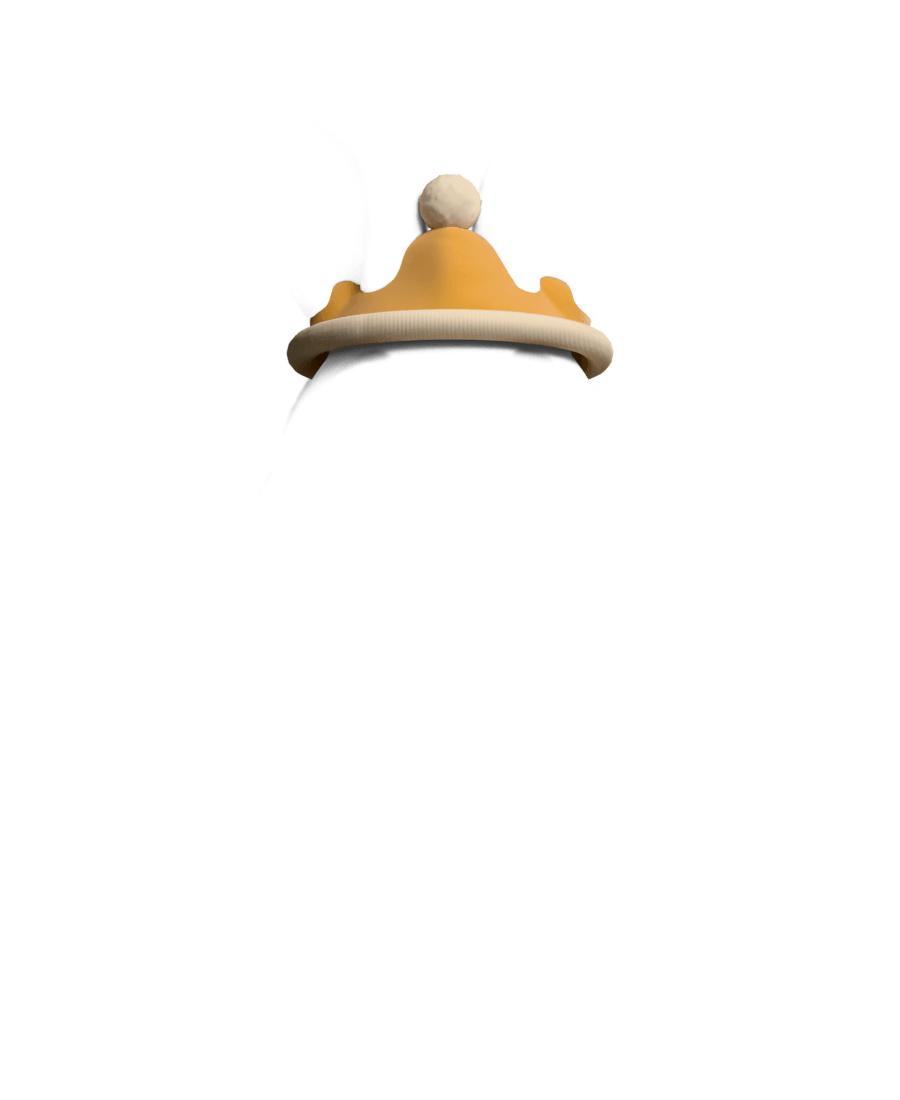
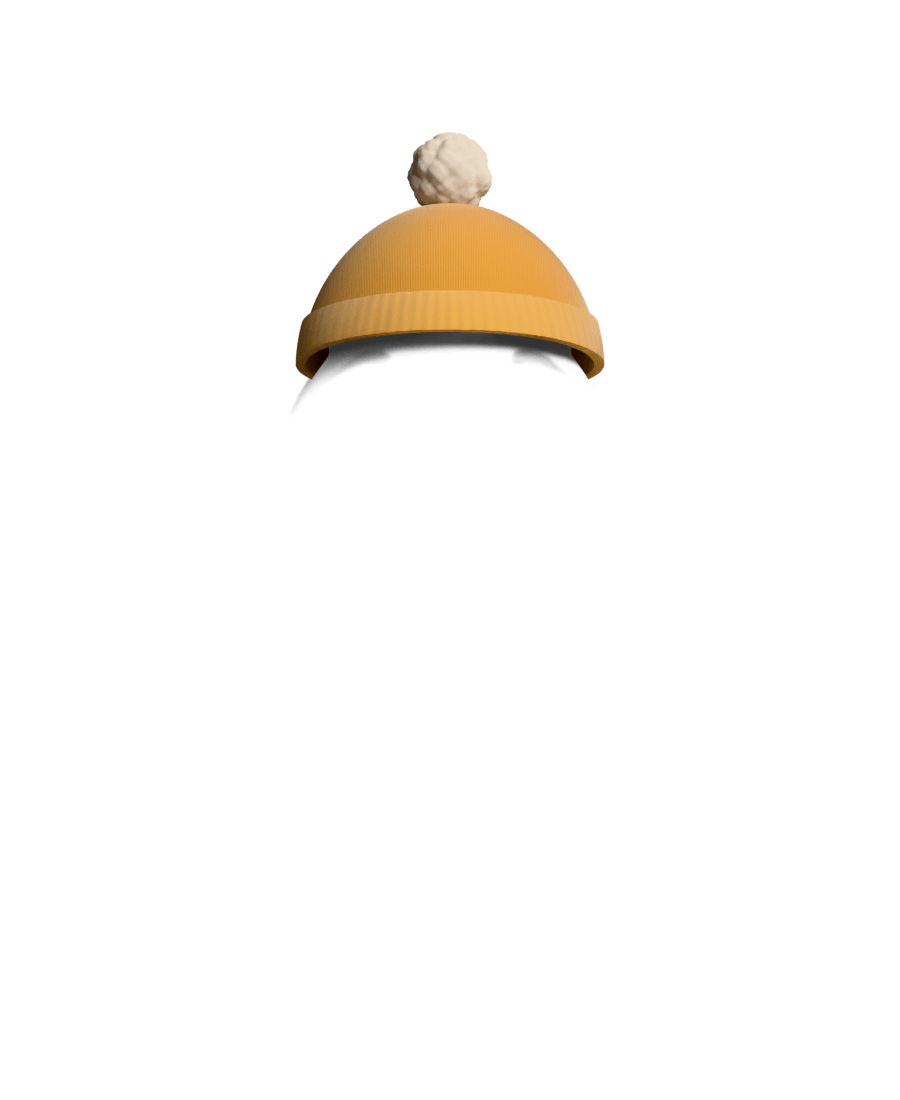
Rabi'yi Giydir: bere ve taç yeniden, kulaklık oturuşu, kalem kalktı
- Bere: kulaklar gizli (taban rabi-bere.png); gövde yuvarlak, arkası sarkık
  örgü kubbe, katlanmış fitilli ağız, kabarık ponpon.
- Taç: büyük halka kafanın tepesinde, kulaklar içinden çıkıyor (rabi-tac.png).
- Sigma birleşimleri: rabi-sigma-bere.png, rabi-sigma-tac.png.
- Kulaklık kabuğu kafanın yüzey normaline oturuyor.
- Kulakta kalem kaldırıldı (tabanaGore de kalktı).

Changed region(s): [[0.3111, 0.1236, 0.6844, 0.34]]

diff --git a/lib/giydir.ts b/lib/giydir.ts
@@ -13,7 +13,7 @@
 
 export type Yuva = 'kafa' | 'kulak' | 'yuz' | 'boyun' | 'ayak'
 
-export type EsyaId = 'kep' | 'bere' | 'tac' | 'kulaklik' | 'kalem' | 'gunes' | 'papyon' | 'atki' | 'sigma'
+export type EsyaId = 'kep' | 'bere' | 'tac' | 'kulaklik' | 'gunes' | 'papyon' | 'atki' | 'sigma'
 
 export type Esya = {
   id: EsyaId
@@ -27,17 +27,12 @@ export type Esya = {
   fiyat: number
   /**
    * Bu eşya giyiliyken alttaki Rabi'nin değişen yanı (dosya adı eki). Kepte bir
-   * kulak dik, öteki bükük (kullanıcı dört seçenek arasından seçti); Sigma'da
+   * kulak dik, öteki bükük (kullanıcı dört seçenek arasından seçti); berede
+   * kulaklar gizli; taçta kulaklar biraz toplanıp tacın içinden çıkar; Sigma'da
    * yüz ve duruş değişir. İkisi birden giyilince ekler birleşir:
    * `rabi-sigma-kep.png` (`tabanYolu`). Eşya katmanı da bu Rabi'ye göre çizildi.
    */
   taban?: string
-  /**
-   * Alttaki Rabi değişince bu eşyanın ona göre çizilmiş katmanı: taban eki →
-   * katman. Kulağa bağlı kalem kepte kulakla birlikte kayıyor; yoksa kulaktan
-   * ayrık dururdu.
-   */
-  tabanaGore?: Readonly<Record<string, string>>
 }
 
 /** Yuva → giyilen eşya. Her yuvada en çok bir eşya: aynı yere iki şapka olmaz. */
@@ -51,9 +46,10 @@ export const CIPLAK_RABI = '/giydir/rabi.png'
 /**
  * Listedeki sıra: baştan ayağa, göz yukarıdan aşağı tarıyor.
  *
- * Gözlük (`gozluk`) ve bahçıvan botu (`bot`) kullanıcı kaldırttı (2026-10-31);
- * kayıtta kalan eski seçim `giyilenleriCoz`ta sessizce düşer. Ayak yuvası
- * boş ama tip ve sırada duruyor: ileride ayağa eşya gelirse yeri hazır.
+ * Gözlük (`gozluk`), bahçıvan botu (`bot`) ve kulakta kalem (`kalem`) kullanıcı
+ * kaldırttı (2026-10-31); kayıtta kalan eski seçim `giyilenleriCoz`ta sessizce
+ * düşer. Kulak ve ayak yuvaları boş ama tip ve sırada duruyor: ileride eşya
+ * gelirse yeri hazır.
  */
 export const ESYALAR: readonly Esya[] = [
   {
@@ -65,18 +61,9 @@ export const ESYALAR: readonly Esya[] = [
     fiyat: 0,
     taban: 'kep',
   },
-  { id: 'bere', ad: 'Bere', yuva: 'kafa', gorsel: '/giydir/bere.png', ikon: '/giydir/bere-ikon.png', fiyat: 0 },
-  { id: 'tac', ad: 'Taç', yuva: 'kafa', gorsel: '/giydir/tac.png', ikon: '/giydir/tac-ikon.png', fiyat: 0 },
+  { id: 'bere', ad: 'Bere', yuva: 'kafa', gorsel: '/giydir/bere.png', ikon: '/giydir/bere-ikon.png', fiyat: 0, taban: 'bere' },
+  { id: 'tac', ad: 'Taç', yuva: 'kafa', gorsel: '/giydir/tac.png', ikon: '/giydir/tac-ikon.png', fiyat: 0, taban: 'tac' },
   { id: 'kulaklik', ad: 'Kulaklık', yuva: 'kafa', gorsel: '/giydir/kulaklik.png', ikon: '/giydir/kulaklik-ikon.png', fiyat: 0 },
-  {
-    id: 'kalem',
-    ad: 'Kulakta Kalem',
-    yuva: 'kulak',
-    gorsel: '/giydir/kalem.png',
-    ikon: '/giydir/kalem-ikon.png',
-    fiyat: 0,
-    tabanaGore: { kep: '/giydir/kalem-kep.png' },
-  },
   { id: 'gunes', ad: 'Güneş Gözlüğü', yuva: 'yuz', gorsel: '/giydir/gunes.png', ikon: '/giydir/gunes-ikon.png', fiyat: 0 },
   { id: 'papyon', ad: 'Papyon', yuva: 'boyun', gorsel: '/giydir/papyon.png', ikon: '/giydir/papyon-ikon.png', fiyat: 0 },
   { id: 'atki', ad: 'Atkı', yuva: 'boyun', gorsel: '/giydir/atki.png', ikon: '/giydir/atki-ikon.png', fiyat: 0 },
@@ -90,8 +77,8 @@ export const ESYALAR: readonly Esya[] = [
  * Katmanların alttan üste sırası (çıplak Rabi'nin üstünde).
  *
  * Ayak → boyun → yüz → kulak → kafa. Katmanlar başın çevresinde örtüşür:
- * şapka en üstte (kalemin ucu berenin altına girer, gözlük sapı kepin
- * altında kalır); boyun eşyası çenenin altında, yüzün altında.
+ * şapka en üstte (gözlük sapı kepin altında kalır); boyun eşyası çenenin
+ * altında, yüzün altında.
  */
 export const KATMAN_SIRASI: readonly Yuva[] = ['ayak', 'boyun', 'yuz', 'kulak', 'kafa']
 
@@ -170,11 +157,7 @@ export function katmanlar(giyilenler: Giyilenler): string[] {
     return esya && esya.yuva === yuva ? [esya] : []
   })
   const ekler = giyili.flatMap((e) => (e.taban ? [e.taban] : []))
-  const gorsel = (e: Esya) => {
-    const ek = ekler.find((x) => e.tabanaGore?.[x] !== undefined)
-    return ek === undefined ? e.gorsel : (e.tabanaGore?.[ek] ?? e.gorsel)
-  }
-  return [tabanYolu(ekler), ...giyili.map(gorsel)]
+  return [tabanYolu(ekler), ...giyili.map((e) => e.gorsel)]
 }
 
 /**

diff --git a/lib/giydir.test.ts b/lib/giydir.test.ts
@@ -14,13 +14,12 @@ import {
 } from './giydir'
 
 describe('katalog', () => {
-  it('dokuz eşya, baştan aşağı sıralı, her biri kendi yuvasında ve ücretsiz', () => {
+  it('sekiz eşya, baştan aşağı sıralı, her biri kendi yuvasında ve ücretsiz', () => {
     expect(ESYALAR.map((e) => [e.id, e.yuva])).toEqual([
       ['kep', 'kafa'],
       ['bere', 'kafa'],
       ['tac', 'kafa'],
       ['kulaklik', 'kafa'],
-      ['kalem', 'kulak'],
       ['gunes', 'yuz'],
       ['papyon', 'boyun'],
       ['atki', 'boyun'],
@@ -82,40 +81,32 @@ describe('katmanlar', () => {
     expect(katmanlar(cikar(g, 'kafa'))).toEqual([CIPLAK_RABI, '/giydir/gunes.png'])
   })
 
-  it('sıra alttan üste: boyun → yüz → kulak → kafa', () => {
-    const g = giy(giy(giy(giy({}, 'bere'), 'kalem'), 'gunes'), 'atki')
-    expect(katmanlar(g)).toEqual([
-      CIPLAK_RABI,
-      '/giydir/atki.png',
-      '/giydir/gunes.png',
-      '/giydir/kalem.png',
-      '/giydir/bere.png',
-    ])
+  it('sıra alttan üste: boyun → yüz → kafa; berede kulaklar gizli taban', () => {
+    const g = giy(giy(giy({}, 'bere'), 'gunes'), 'atki')
+    expect(katmanlar(g)).toEqual(['/giydir/rabi-bere.png', '/giydir/atki.png', '/giydir/gunes.png', '/giydir/bere.png'])
+    expect(katmanlar({ kafa: 'tac' })).toEqual(['/giydir/rabi-tac.png', '/giydir/tac.png'])
+    expect(katmanlar({ kafa: 'kulaklik' })).toEqual([CIPLAK_RABI, '/giydir/kulaklik.png'])
   })
 
-  it("kepteyken kalem bükük kulaklı Rabi'ye göre çizilmiş katmanına geçer", () => {
-    expect(katmanlar({ kafa: 'kep', kulak: 'kalem' })).toEqual([
-      '/giydir/rabi-kep.png',
-      '/giydir/kalem-kep.png',
-      '/giydir/kep.png',
-    ])
-    expect(katmanlar({ kafa: 'tac', kulak: 'kalem' })).toEqual([CIPLAK_RABI, '/giydir/kalem.png', '/giydir/tac.png'])
-  })
-
-  it('Sigma tabanı yüzü ve duruşu değiştirir; keple birlikte iki ek birleşir', () => {
+  it('Sigma tabanı yüzü ve duruşu değiştirir; şapkayla birlikte iki ek birleşir', () => {
     expect(katmanlar({ boyun: 'sigma' })).toEqual(['/giydir/rabi-sigma.png', '/giydir/sigma.png'])
-    expect(katmanlar({ boyun: 'sigma', kafa: 'kep', kulak: 'kalem' })).toEqual([
-      '/giydir/rabi-sigma-kep.png',
-      '/giydir/sigma.png',
-      '/giydir/kalem-kep.png',
-      '/giydir/kep.png',
-    ])
+    expect(katmanlar({ boyun: 'sigma', kafa: 'kep' })).toEqual(['/giydir/rabi-sigma-kep.png', '/giydir/sigma.png', '/giydir/kep.png'])
+    expect(katmanlar({ boyun: 'sigma', kafa: 'bere' })[0]).toBe('/giydir/rabi-sigma-bere.png')
   })
 
   it('taban dosyaları: çıplak, tek ekli ve birleşik hâlleri', () => {
     expect(tabanYolu([])).toBe(CIPLAK_RABI)
     expect(tumTabanlar().sort()).toEqual(
-      [CIPLAK_RABI, '/giydir/rabi-kep.png', '/giydir/rabi-sigma.png', '/giydir/rabi-sigma-kep.png'].sort(),
+      [
+        CIPLAK_RABI,
+        '/giydir/rabi-kep.png',
+        '/giydir/rabi-bere.png',
+        '/giydir/rabi-tac.png',
+        '/giydir/rabi-sigma.png',
+        '/giydir/rabi-sigma-kep.png',
+        '/giydir/rabi-sigma-bere.png',
+        '/giydir/rabi-sigma-tac.png',
+      ].sort(),
     )
   })
 
@@ -143,7 +134,7 @@ describe('giyilenleriCoz', () => {
     expect(giyilenleriCoz({ kafa: 7, yuz: { id: 'gunes' } })).toEqual({})
   })
 
-  it('kaldırılan gözlük ve botun eski kaydı düşer, kalan seçim korunur', () => {
-    expect(giyilenleriCoz({ kafa: 'kep', yuz: 'gozluk', ayak: 'bot' })).toEqual({ kafa: 'kep' })
+  it('kaldırılan gözlük, bot ve kalemin eski kaydı düşer, kalan seçim korunur', () => {
+    expect(giyilenleriCoz({ kafa: 'kep', yuz: 'gozluk', ayak: 'bot', kulak: 'kalem' })).toEqual({ kafa: 'kep' })
   })
 })

diff --git a/components/ekranlar/rabi-giydir.tsx b/components/ekranlar/rabi-giydir.tsx
@@ -90,7 +90,7 @@ export function RabiGiydirEkrani({
 function useGorselleriOnYukle(): boolean {
   const [hazir, setHazir] = useState(false)
   useEffect(() => {
-    const dosyalar = [...tumTabanlar(), ...ESYALAR.flatMap((e) => [e.gorsel, ...Object.values(e.tabanaGore ?? {})])]
+    const dosyalar = [...tumTabanlar(), ...ESYALAR.map((e) => e.gorsel)]
     let kalan = dosyalar.length
     let iptal = false
     const bitti = () => {

diff --git a/docs/kurallar/maskot-ve-ikon.md b/docs/kurallar/maskot-ve-ikon.md
@@ -123,18 +123,21 @@ Rabi proje kurallarının bir parçası — dizin ve genel kurallar: [AGENTS.md]
   oran orada gürültüye boğulup camın altında hayalet leke bırakıyordu.
 - Paletli PNG (maskot pozlarıyla aynı). Yeni eşya = Blender'da kemiğe bağlı nesne +
   aynı kamerayla katman + `ESYALAR`a satır; aynı yuvaya ikinci eşya ötekini çıkarır.
-- **Eşyalar ve yuvalar** (2026-10-31): kafa (kep, bere, taç, kulaklık), kulak (kalem),
-  yüz (güneş gözlüğü), boyun (papyon, atkı), ayak (boş). Yeni dördüncü tur eşyaları
-  `kur4.py` kurar (`rabi_giydir4.blend`; ortak yardımcılar `ortak.py`), `katman4.py`
-  çizer. Kulaklar dik olduğu için kafa eşyaları kulakların **önünden** geçer: kulaklık
-  bandı alnın üstünden, taç kulakların önünde (arka kenarı kulağa değmeyene dek öne
-  itilir); kafanın tepesinde iki kulak arasında boşluk yok denecek kadar dar.
-  - Bere: kulaksız kafadan kubbe, yukarı bollaşır, kulaklar içinden çıkar, tepede
-    ponpon. Kulak kılıfı denendi, kese kâğıdı gibi durdu. Bere ve kep katmanında
-    perçem gizlenir (yoksa önünde beyaz leke kalır).
-  - Kalem kulağa bağlı: kepte kulak büküldüğü için ikinci katmanı var
-    (`kalem-kep.png`, `Esya.tabanaGore`); `katman4.py ... kepli` kep pozunu
-    `rabi_giydir_buku.blend`'den kopyalayıp çizer.
+- **Eşyalar ve yuvalar** (2026-10-31): kafa (kep, bere, taç, kulaklık), yüz (güneş
+  gözlüğü), boyun (papyon, atkı, Sigma); kulak ve ayak yuvaları boş. Kulakta kalem
+  kullanıcı kaldırttı; geri getirme. Dördüncü tur eşyaları `kur4.py` kurar
+  (`rabi_giydir5.blend`; ortak yardımcılar `ortak.py`, kulak pozları `sarkik.py`),
+  `katman4.py` çizer; verilen eşyalar sahneden silinip yeniden kurulur.
+  - Kulaklık: bant kulakların önünden geçer; kabuk kafanın **yüzey normaline** göre
+    oturur (sabit açıyla yastık bir kenardan havada kalıyordu).
+  - Bere: kulaklar **gizli** (kullanıcı istedi; yana sarkık ve içinden çıkan kulak
+    denendi). Gövde kafadan değil elipsoitten: kafayı şişirince tepe sivri, şapka gibi
+    duruyordu. Katlanmış fitilli ağız kafaya yapışık bant (simit kenar siper gibiydi),
+    kabarık ponpon. Bere ve kep katmanında perçem gizlenir.
+  - Taç: büyük halka kafanın tepesine oturur, kulaklar **içinden** çıkar (kullanıcı
+    istedi); kulaklar biraz içe toplanıp incelir (`TAC_KULAK`).
+  - Taban ekli eşya her eklendiğinde Sigma birleşimi de çizilir
+    (`katman_sigma_ek.py`: `rabi-sigma-bere.png`, `rabi-sigma-tac.png`).
 - **Sigma Rabi** (kullanıcı istedi, 2026-10-31): boyun yuvası; katmanı altın Kuba
   zinciri + "R" kolye (`sigma.png`), yüz ve duruş tabanda (`taban: 'sigma'`).
   Gözler ve kaşlar renk dokusuna boyalı (önden düz yansıtma, `rest_pos` x/z →
